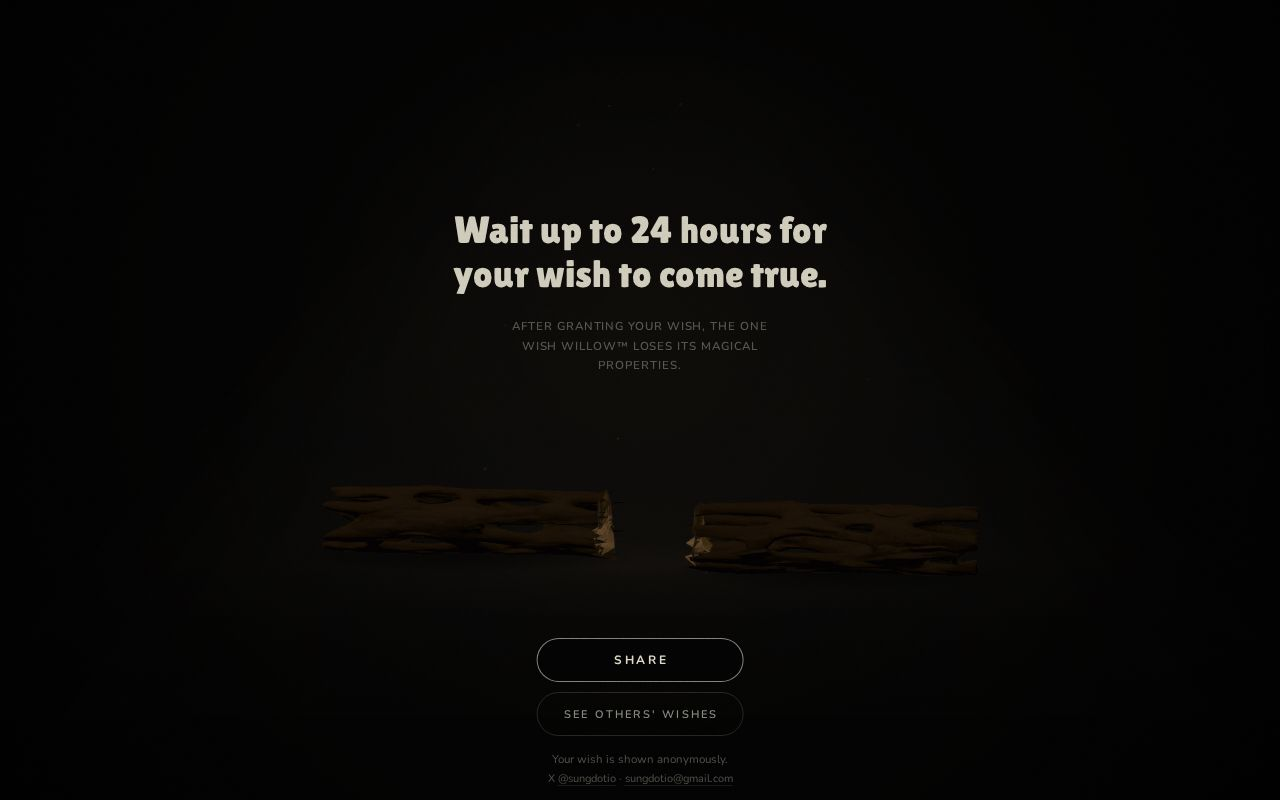
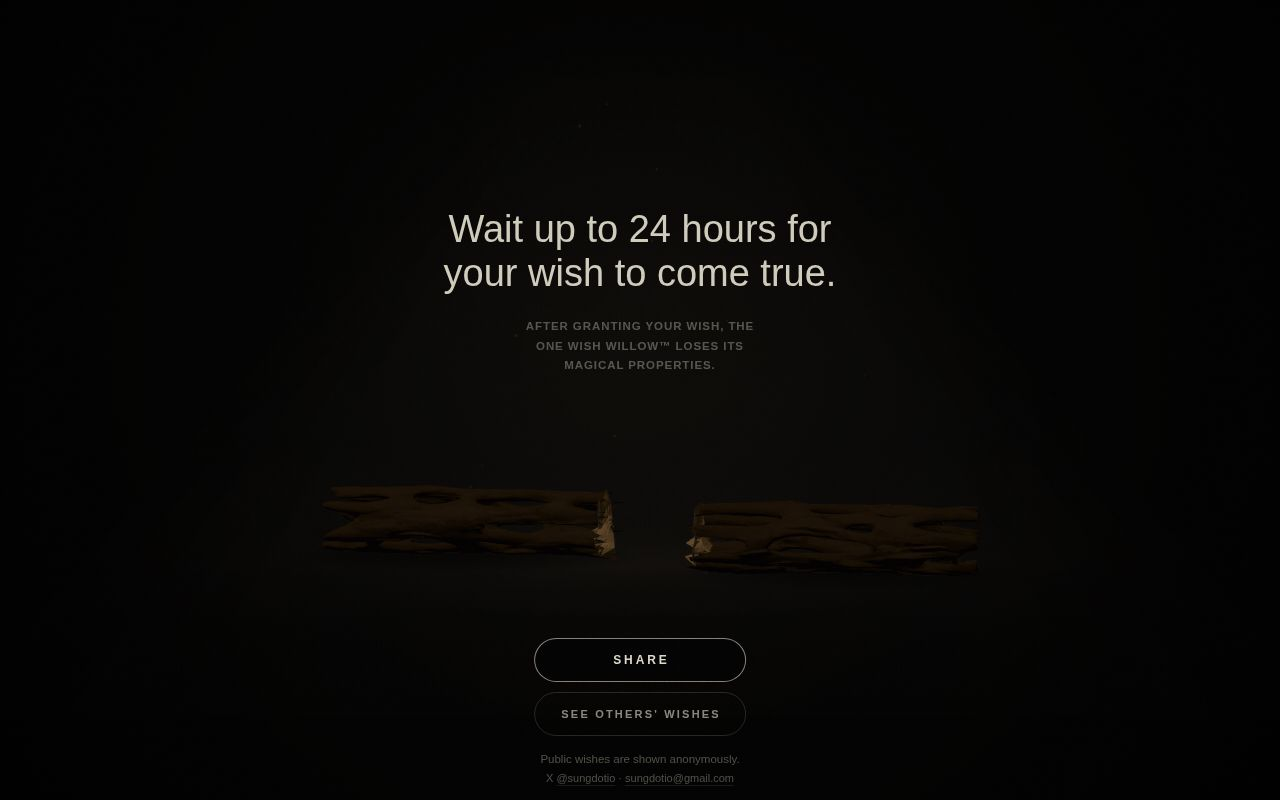
MIN-194 follow-up: neutral anonymity line, check mark, flag-OFF test harness
- ending/revisit line now reads 'Public wishes are shown anonymously.'
- private checkbox shows a small check mark when checked
- flow-test injects SOCIAL_ENABLED explicitly instead of replacing 'false'

Claude-Session: https://claude.ai/code/session_01MnMYRn2DAYac2f1eRmW6WV

diff --git a/index.html b/index.html
@@ -142,7 +142,7 @@
 
   <!-- the first screen: the fan-made notice and a Credits link; after the wish (.end) the anonymity line and the contact line -->
   <p class="credit" id="credit">
-    <span class="credit-line credit-anon">Your wish is shown anonymously.</span>
+    <span class="credit-line credit-anon">Public wishes are shown anonymously.</span>
     <span class="credit-line credit-contact">X <a href="https://x.com/sungdotio" target="_blank" rel="noopener">@sungdotio</a> · <a href="mailto:sungdotio@gmail.com">sungdotio@gmail.com</a></span>
     <span class="credit-line credit-fan">Unofficial fan-made project. Not affiliated with Obsession or its studio.<span id="credit-more"> · <button class="credit-open" id="credit-open" type="button" aria-haspopup="dialog">Credits</button></span></span>
   </p>

diff --git a/css/style.css b/css/style.css
@@ -489,10 +489,22 @@ body {
   border-radius: 3px;
   background: transparent;
   cursor: pointer;
+  position: relative;
 }
 .wish-private input:checked {
   border-color: rgba(232, 184, 119, 0.7);
   background: rgba(232, 184, 119, 0.55);
+}
+.wish-private input:checked::after {
+  content: "";
+  position: absolute;
+  left: 3.5px;
+  top: 0.5px;
+  width: 3px;
+  height: 6.5px;
+  border: solid #1a1612;
+  border-width: 0 1.5px 1.5px 0;
+  transform: rotate(45deg);
 }
 .wish-private input:focus-visible { outline: 1px solid var(--ink-soft); outline-offset: 3px; }
 

diff --git a/README.md b/README.md
@@ -16,7 +16,7 @@ It must be served over HTTP(S), because ES modules don't load from `file://`.
 
 ## The 3D model
 
-The box and the willow come from **["One Wish Willow from Obsession movie"](https://sketchfab.com/3d-models/one-wish-willow-from-obsession-movie-7269f920284c4bb7a169ee110034d164) by [AlyStation](https://sketchfab.com/alyxyuu)**, licensed under [CC BY 4.0](http://creativecommons.org/licenses/by/4.0/). The first screen keeps one small line at its foot, *Unofficial fan-made project. Not affiliated with Obsession or its studio.*, with a **Credits** link beside it. Credits opens a small dialog with the model's attribution: the title, AlyStation, a link to it on Sketchfab, a link to CC BY 4.0, and *modified*, because the model was changed (CC BY 4.0 asks for that). It closes with ×, Escape or a tap outside the card. After the wish (the ending and the revisit screen), only *Your wish is shown anonymously.* stays under Share, with the maker's contact as one more small line under it: X [@sungdotio](https://x.com/sungdotio) · [sungdotio@gmail.com](mailto:sungdotio@gmail.com). When the painted fallback is used, the Credits link is left out and the notice stays. The original license note is in `assets/willow/license.txt`.
+The box and the willow come from **["One Wish Willow from Obsession movie"](https://sketchfab.com/3d-models/one-wish-willow-from-obsession-movie-7269f920284c4bb7a169ee110034d164) by [AlyStation](https://sketchfab.com/alyxyuu)**, licensed under [CC BY 4.0](http://creativecommons.org/licenses/by/4.0/). The first screen keeps one small line at its foot, *Unofficial fan-made project. Not affiliated with Obsession or its studio.*, with a **Credits** link beside it. Credits opens a small dialog with the model's attribution: the title, AlyStation, a link to it on Sketchfab, a link to CC BY 4.0, and *modified*, because the model was changed (CC BY 4.0 asks for that). It closes with ×, Escape or a tap outside the card. After the wish (the ending and the revisit screen), only *Public wishes are shown anonymously.* stays under Share, with the maker's contact as one more small line under it: X [@sungdotio](https://x.com/sungdotio) · [sungdotio@gmail.com](mailto:sungdotio@gmail.com). When the painted fallback is used, the Credits link is left out and the notice stays. The original license note is in `assets/willow/license.txt`.
 
 What the downloaded model contains, and what was done with it:
 
